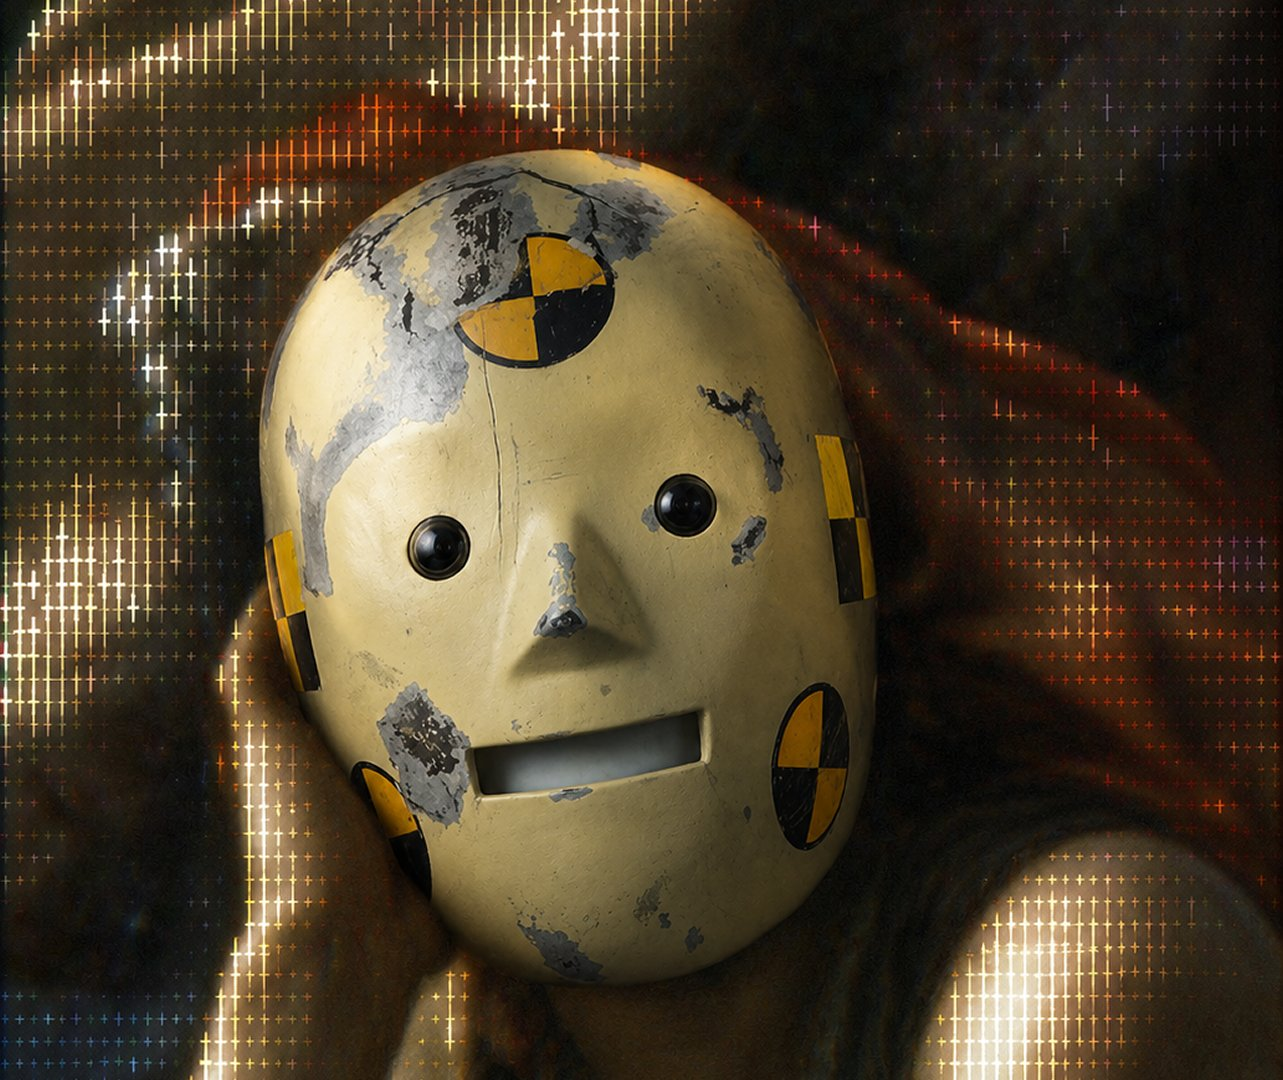
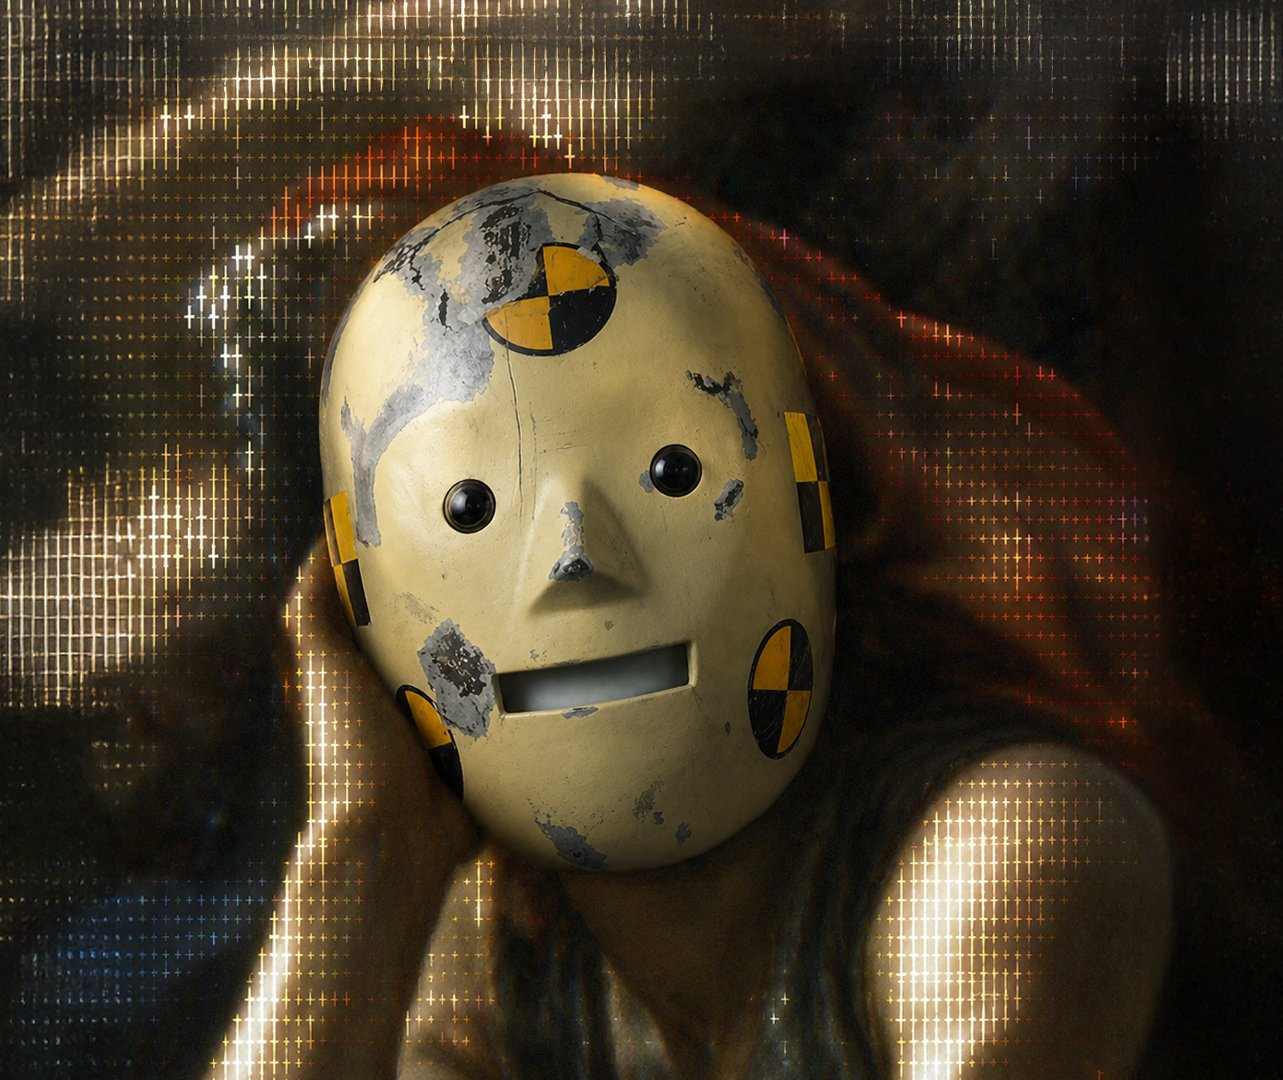
Add files via upload

diff --git a/about.html b/about.html
@@ -55,7 +55,7 @@
     }
     #img-panel img {
       width: 100%; height: 100%;
-      object-fit: cover; object-position: center center;
+      object-fit: cover; object-position: center 30%;
       display: block;
     }
 
